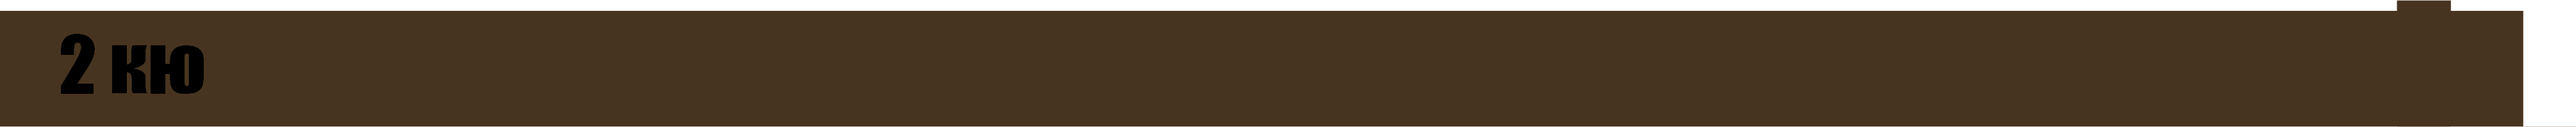
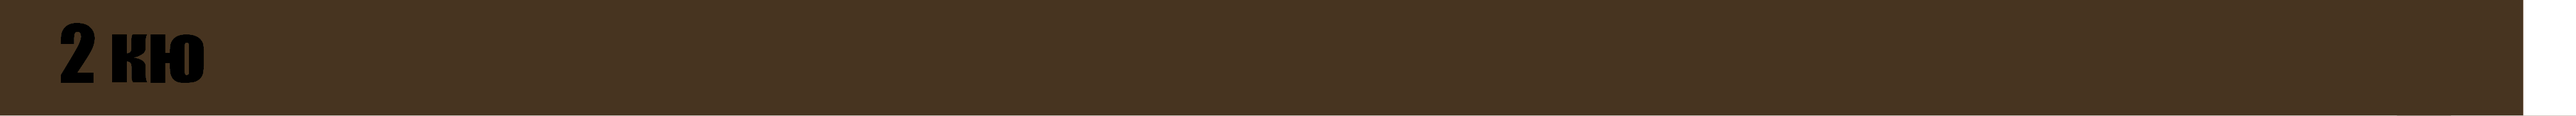
mob

diff --git a/teoria.html b/teoria.html
@@ -252,7 +252,11 @@
               <!-- 10 -->              
                 <div class="wrap-10">
                   <input type="radio" id="tab-10" name="tabs">
-                  <label for="tab-10"><div>10 кю</div><div class="cross"></div></label>
+                  <label for="tab-10">
+                    <div class= "show-on-mobile"><img src="images/poyas/10mob.png"   width="320" height="44.5" alt="MFK Logo"></div>
+                    <div class= "hide-on-mobile"><img src="images/poyas/10.png"   width="965" height="43.5" alt="MFK Logo"></div>
+                    <div class="cross"></div>
+                  </label>
                   <div class="questions">
                     <div class="question-wrap">
                       <input type="radio" id="question-101" name="question">
@@ -321,7 +325,7 @@
               <div class="wrap-10">
                   <input type="radio" id="tab-9" name="tabs">
                   <label for="tab-9">
-                    <div class= "show-on-mobile"><img src="images/poyas/9mob.png"   width="320" height="44.5" alt="MFK Logo"></div>
+                    <div class= "show-on-mobile"><img src="images/poyas/9mob.png"   width="360" height="44.5" alt="MFK Logo"></div>
                   <div class= "hide-on-mobile"><img src="images/poyas/9.png"   width="965" height="44" alt="MFK Logo"></div>
                   <div class="cross"></div>
                 </label>
@@ -516,7 +520,11 @@
               <!-- 7 @@@@@@@@@@@@@@@@@@@@@@@@@@@@@@@@@@@@@@@@@@@@@@@@@@@@@@@@@@@@@@@@@@@@@@@@@@@@@@-->
               <div class="wrap-3">
                 <input type="radio" id="tab-7" name="tabs">
-                <label for="tab-7"><div>7 кю</div><div class="cross"></div></label>
+                <label for="tab-7">
+                  <div class= "show-on-mobile"><img src="images/poyas/7mob.png"   width="320" height="44.5" alt="MFK Logo"></div>
+                  <div class= "hide-on-mobile"><img src="images/poyas/7.png"   width="965" height="44" alt="MFK Logo"></div>
+                  <div class="cross"></div>
+                </label>
                 <div class="questions">
                   <div class="question-wrap">
                     <input type="radio" id="question-71" name="question">
@@ -1130,7 +1138,11 @@
             <!-- 1 dan @@@@@@@@@@@@@@@@@@@@@@@@@@@@@@@@@@@@@@@@@@@@@@@@@@@@@@@@@@@@@@@@@@@@@@@@@@@@@@@@@@@@@@@@@-->
             <div class="wrap-3">
               <input type="radio" id="tab-11" name="tabs">
-              <label for="tab-11"><div>1 дан</div><div class="cross"></div></label>
+              <label for="tab-11">
+                <div class= "show-on-mobile"><img src="images/poyas/1mob.png"   width="320" height="44.5" alt="MFK Logo"></div>
+                  <div class= "hide-on-mobile"><img src="images/poyas/1.png"   width="965" height="44" alt="MFK Logo"></div>
+                  <div class="cross"></div>
+                </label>
               <div class="questions">
                 <div class="question-wrap">
                   <input type="radio" id="question-119" name="question">
